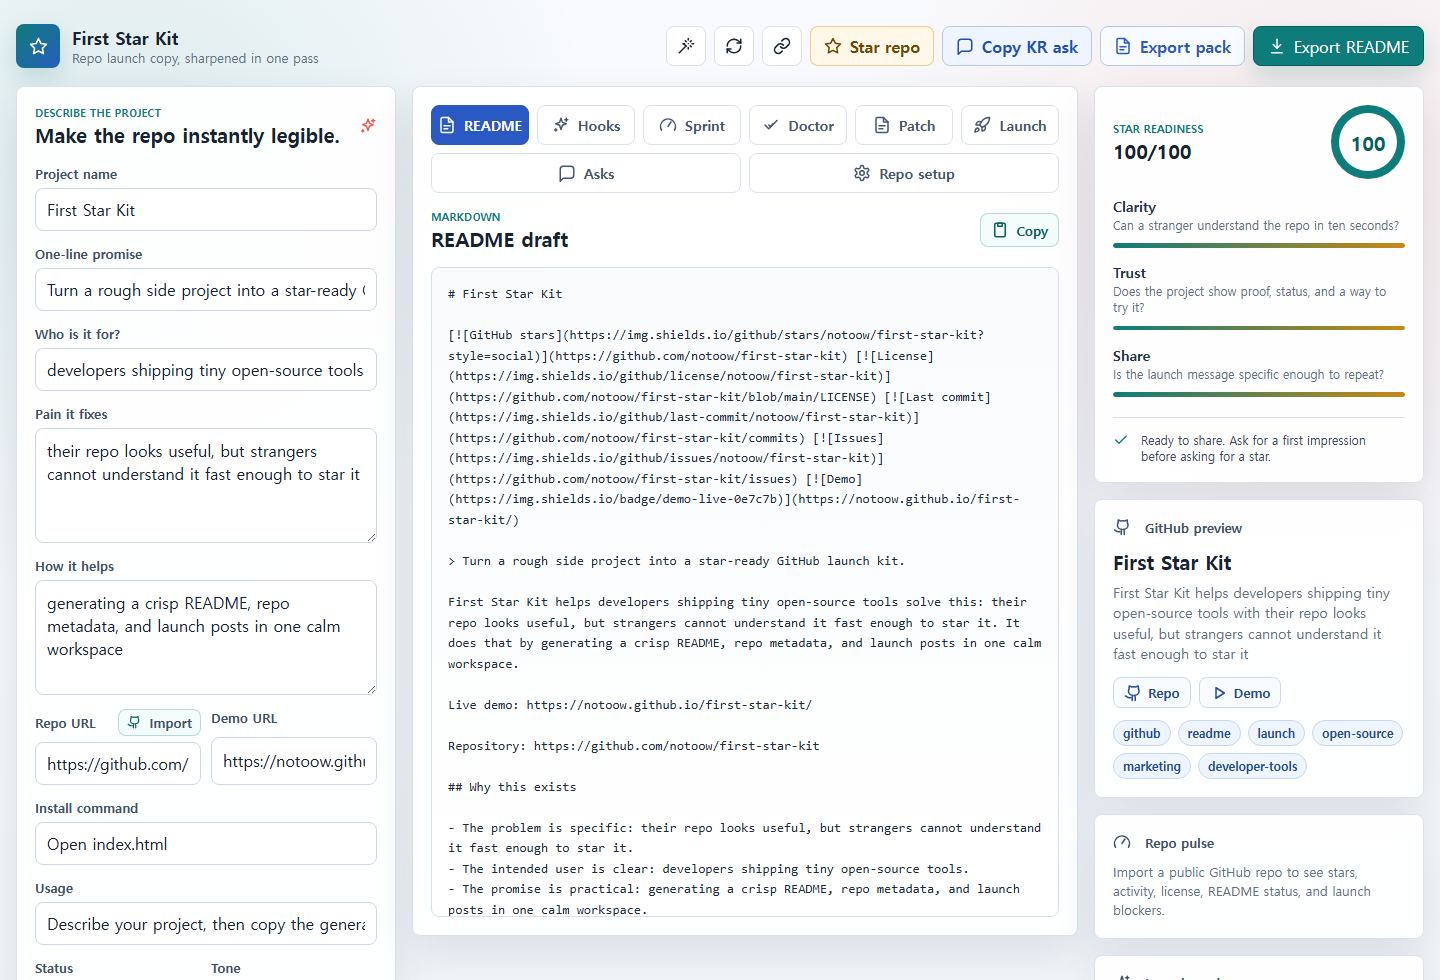
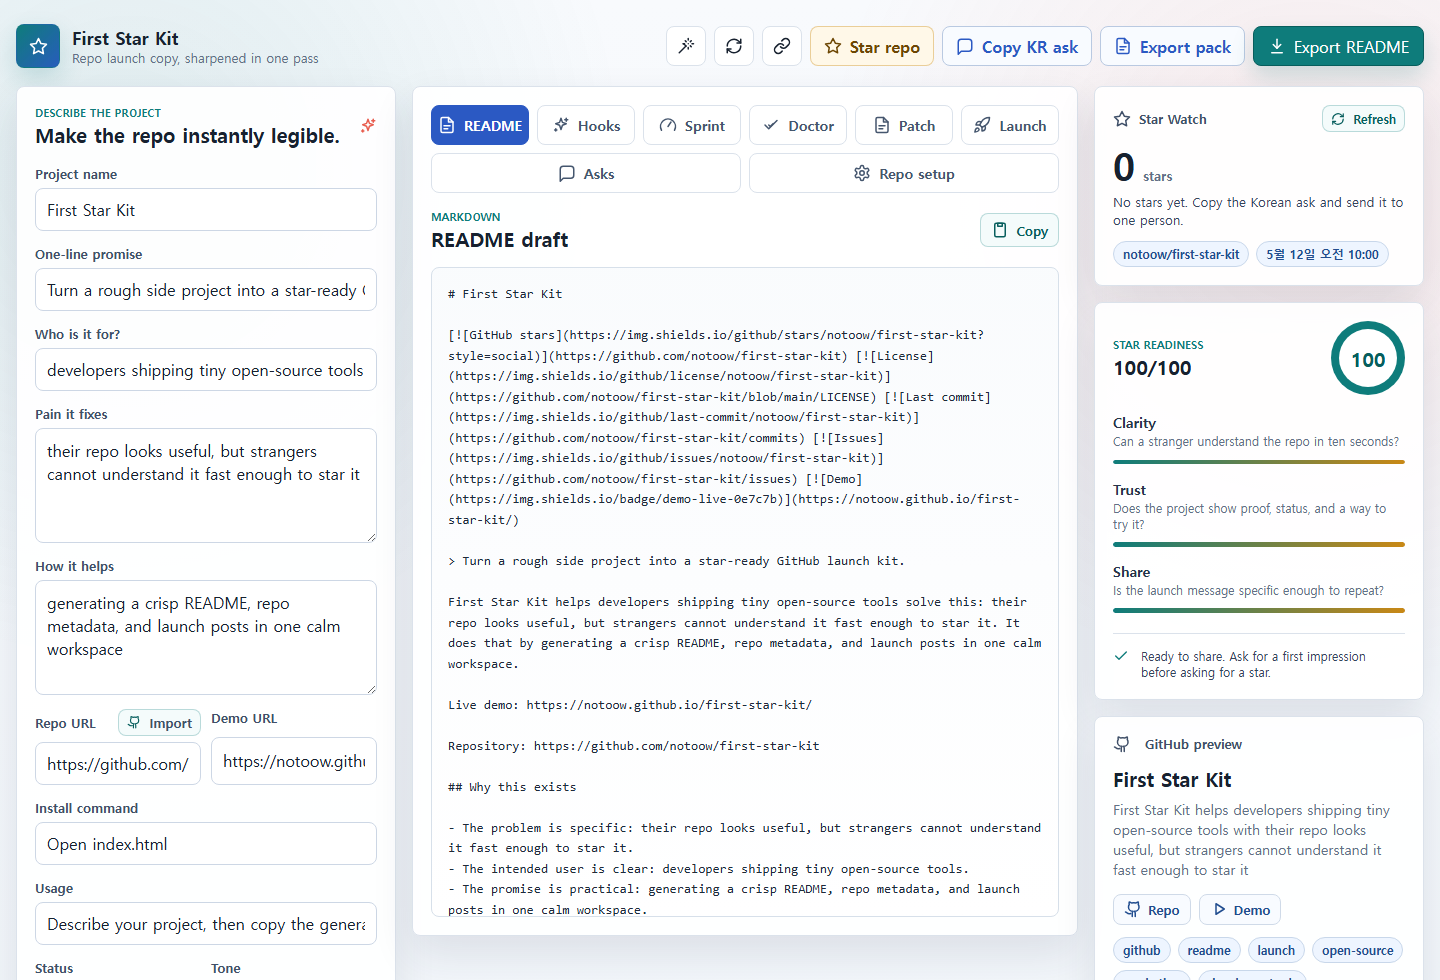
add live star watch

Changed region(s): [[0.75, 0.0918, 1.0, 1.0], [0.6875, 0.0306, 0.75, 0.0612]]

diff --git a/src/app.js b/src/app.js
@@ -42,6 +42,7 @@ const sampleState = {
   keywords: "github, readme, launch, open-source, marketing, developer-tools",
   tone: "direct",
   repoPulse: null,
+  starWatch: null,
   askTargets: [
     {
       id: "sample-maker-friend",
@@ -82,6 +83,7 @@ const blankState = {
   keywords: "",
   tone: "direct",
   repoPulse: null,
+  starWatch: null,
   askTargets: [],
 };
 
@@ -265,6 +267,7 @@ function normalizeState(value) {
   return {
     ...value,
     askTargets: normalizeAskTargets(value.askTargets),
+    starWatch: value.starWatch && typeof value.starWatch === "object" ? value.starWatch : null,
   };
 }
 
@@ -717,6 +720,25 @@ function daysSince(value) {
   const time = new Date(value).getTime();
   if (Number.isNaN(time)) return null;
   return Math.max(0, Math.round((Date.now() - time) / 86400000));
+}
+
+function minutesSince(value) {
+  if (!value) return Infinity;
+  const time = new Date(value).getTime();
+  if (Number.isNaN(time)) return Infinity;
+  return Math.max(0, Math.round((Date.now() - time) / 60000));
+}
+
+function formatCheckedAt(value) {
+  if (!value) return "Not checked yet";
+  const date = new Date(value);
+  if (Number.isNaN(date.getTime())) return "Not checked yet";
+  return date.toLocaleString([], {
+    month: "short",
+    day: "numeric",
+    hour: "2-digit",
+    minute: "2-digit",
+  });
 }
 
 function buildSprintPlan(data, repoKit, totalScore) {
@@ -1417,6 +1439,49 @@ function renderRepoPulse(pulse) {
   `;
 }
 
+function renderStarWatch(watch) {
+  const target = document.getElementById("starWatch");
+  if (!target) return;
+  const repo = parseGitHubRepoUrl(state.repoUrl);
+
+  if (!repo) {
+    target.innerHTML = `
+      <p class="star-watch-empty">Paste a GitHub repo URL to watch the current star count.</p>
+    `;
+    return;
+  }
+
+  if (!watch) {
+    target.innerHTML = `
+      <div class="star-watch-main">
+        <strong>?</strong>
+        <span>stars</span>
+      </div>
+      <p class="star-watch-note">Refresh to check ${escapeHtml(repo.owner)}/${escapeHtml(repo.repo)}.</p>
+    `;
+    return;
+  }
+
+  const count = Number.isFinite(watch.stars) ? watch.stars : 0;
+  const message = watch.error
+    ? watch.error
+    : count > 0
+      ? "First public signal landed. Keep the ask board warm."
+      : "No stars yet. Copy the Korean ask and send it to one person.";
+
+  target.innerHTML = `
+    <div class="star-watch-main ${count > 0 ? "has-star" : ""}">
+      <strong>${count}</strong>
+      <span>${count === 1 ? "star" : "stars"}</span>
+    </div>
+    <p class="star-watch-note">${escapeHtml(message)}</p>
+    <div class="star-watch-meta">
+      <span>${escapeHtml(watch.fullName || `${repo.owner}/${repo.repo}`)}</span>
+      <span>${escapeHtml(formatCheckedAt(watch.checkedAt))}</span>
+    </div>
+  `;
+}
+
 function renderShareCard(repoKit, totalScore) {
   document.getElementById("cardName").textContent = state.projectName || "Project Name";
   document.getElementById("cardTagline").textContent =
@@ -1450,6 +1515,7 @@ function render() {
   renderRepo(repoKit, badgeKit);
   renderScores(scores, nudges);
   renderPreview(repoKit);
+  renderStarWatch(state.starWatch);
   renderRepoPulse(state.repoPulse);
   renderShareCard(repoKit, totalScore);
   setActiveTab(activeTab);
@@ -1736,6 +1802,12 @@ async function importRepoFromGitHub(button) {
         readmeStats,
         topicsCount: topics.length,
       },
+      starWatch: {
+        fullName: repo.full_name,
+        stars: repo.stargazers_count || 0,
+        checkedAt: new Date().toISOString(),
+        error: "",
+      },
     };
 
     saveState();
@@ -1751,6 +1823,80 @@ async function importRepoFromGitHub(button) {
     button.disabled = false;
     label.textContent = originalLabel;
   }
+}
+
+async function refreshStarWatch(button, options = {}) {
+  const parsed = parseGitHubRepoUrl(state.repoUrl);
+  if (!parsed) {
+    state = {
+      ...state,
+      starWatch: null,
+    };
+    saveState();
+    render();
+    if (!options.silent) showToast("Add a GitHub repo URL first");
+    return;
+  }
+
+  const label = button ? button.querySelector("span") : null;
+  const originalLabel = label ? label.textContent : "";
+  if (button) button.disabled = true;
+  if (label) label.textContent = "Checking";
+
+  try {
+    const response = await fetch(
+      `https://api.github.com/repos/${encodeURIComponent(parsed.owner)}/${encodeURIComponent(parsed.repo)}`,
+      { headers: { Accept: "application/vnd.github+json" } },
+    );
+    if (!response.ok) {
+      throw new Error(response.status === 404 ? "Repo not found." : `GitHub returned ${response.status}.`);
+    }
+
+    const repo = await response.json();
+    const stars = repo.stargazers_count || 0;
+    state = {
+      ...state,
+      starWatch: {
+        fullName: repo.full_name,
+        stars,
+        checkedAt: new Date().toISOString(),
+        error: "",
+      },
+      repoPulse: state.repoPulse
+        ? {
+            ...state.repoPulse,
+            stars,
+            forks: repo.forks_count ?? state.repoPulse.forks,
+            openIssues: repo.open_issues_count ?? state.repoPulse.openIssues,
+            pushedAt: repo.pushed_at || state.repoPulse.pushedAt,
+          }
+        : state.repoPulse,
+    };
+    saveState();
+    render();
+    if (!options.silent) showToast(stars > 0 ? "Star found" : "Still at 0 stars");
+  } catch (error) {
+    state = {
+      ...state,
+      starWatch: {
+        fullName: `${parsed.owner}/${parsed.repo}`,
+        stars: state.starWatch && Number.isFinite(state.starWatch.stars) ? state.starWatch.stars : 0,
+        checkedAt: new Date().toISOString(),
+        error: error.message || "Could not refresh stars.",
+      },
+    };
+    saveState();
+    render();
+    if (!options.silent) showToast("Star check failed");
+  } finally {
+    if (button) button.disabled = false;
+    if (label) label.textContent = originalLabel;
+  }
+}
+
+function shouldAutoRefreshStars() {
+  if (!hasUrl(state.repoUrl) || !parseGitHubRepoUrl(state.repoUrl)) return false;
+  return !state.starWatch || minutesSince(state.starWatch.checkedAt) >= 15;
 }
 
 function wrapCanvasText(context, text, x, y, maxWidth, lineHeight, maxLines) {
@@ -1998,6 +2144,10 @@ document.addEventListener("click", (event) => {
     showToast("First-star ask copied");
   }
 
+  if (action.dataset.action === "refresh-stars") {
+    refreshStarWatch(action);
+  }
+
   if (action.dataset.action === "add-ask") {
     if (addAskTarget(readNewAskTarget())) clearNewAskFields();
   }
@@ -2021,4 +2171,7 @@ render();
 if (initialSharedState) {
   saveState();
   showToast("Loaded kit from link");
+}
+if (shouldAutoRefreshStars()) {
+  refreshStarWatch(null, { silent: true });
 }

diff --git a/index.html b/index.html
@@ -16,7 +16,7 @@
     <meta property="og:url" content="https://notoow.github.io/first-star-kit/" />
     <meta name="twitter:card" content="summary_large_image" />
     <title>First Star Kit</title>
-    <link rel="stylesheet" href="./src/styles.css?v=20260511n" />
+    <link rel="stylesheet" href="./src/styles.css?v=20260512a" />
   </head>
   <body>
     <svg aria-hidden="true" class="svg-sprite">
@@ -289,6 +289,20 @@
         </section>
 
         <aside class="side-rail" aria-label="Readiness and preview">
+          <section class="panel star-watch-panel">
+            <div class="preview-head star-watch-head">
+              <div>
+                <svg class="icon"><use href="#i-star"></use></svg>
+                <span>Star Watch</span>
+              </div>
+              <button class="mini-action" type="button" data-action="refresh-stars">
+                <svg class="icon"><use href="#i-refresh"></use></svg>
+                <span>Refresh</span>
+              </button>
+            </div>
+            <div id="starWatch"></div>
+          </section>
+
           <section class="panel score-panel">
             <div class="score-top">
               <div>
@@ -364,6 +378,6 @@
       </section>
     </main>
 
-    <script src="./src/app.js?v=20260511n"></script>
+    <script src="./src/app.js?v=20260512a"></script>
   </body>
 </html>

diff --git a/src/styles.css b/src/styles.css
@@ -1095,6 +1095,76 @@ meter::-webkit-meter-optimum-value {
   overflow: hidden;
 }
 
+.star-watch-panel {
+  overflow: hidden;
+}
+
+.star-watch-head {
+  justify-content: space-between;
+}
+
+.star-watch-head > div {
+  display: inline-flex;
+  align-items: center;
+  gap: 8px;
+  min-width: 0;
+}
+
+.star-watch-main {
+  display: flex;
+  align-items: baseline;
+  gap: 8px;
+  margin-top: 14px;
+}
+
+.star-watch-main strong {
+  color: var(--ink);
+  font-size: 38px;
+  line-height: 1;
+}
+
+.star-watch-main span {
+  color: var(--muted);
+  font-size: 13px;
+  font-weight: 850;
+}
+
+.star-watch-main.has-star strong {
+  color: var(--teal-dark);
+}
+
+.star-watch-note,
+.star-watch-empty {
+  margin-top: 9px;
+  color: #34445b;
+  font-size: 13px;
+  line-height: 1.4;
+}
+
+.star-watch-empty {
+  color: var(--muted);
+}
+
+.star-watch-meta {
+  display: flex;
+  flex-wrap: wrap;
+  gap: 7px;
+  margin-top: 12px;
+}
+
+.star-watch-meta span {
+  display: inline-flex;
+  align-items: center;
+  min-height: 26px;
+  border: 1px solid #c8d7ea;
+  border-radius: 999px;
+  color: #214d8f;
+  background: #eef5ff;
+  padding: 0 9px;
+  font-size: 12px;
+  font-weight: 800;
+}
+
 .pulse-empty {
   margin-top: 12px;
   color: var(--muted);

diff --git a/README.md b/README.md
@@ -19,6 +19,7 @@ Getting a first GitHub star is often less about the code and more about whether 
 ## Features
 
 - Live README generator
+- Live Star Watch panel for checking the current GitHub star count in the app
 - Prominent live-demo Star repo button for turning visitors into stargazers
 - One-click Korean first-star ask copy for sending a clear request fast
 - Public GitHub repo import for name, description, topics, homepage, license, and quick-start hints
